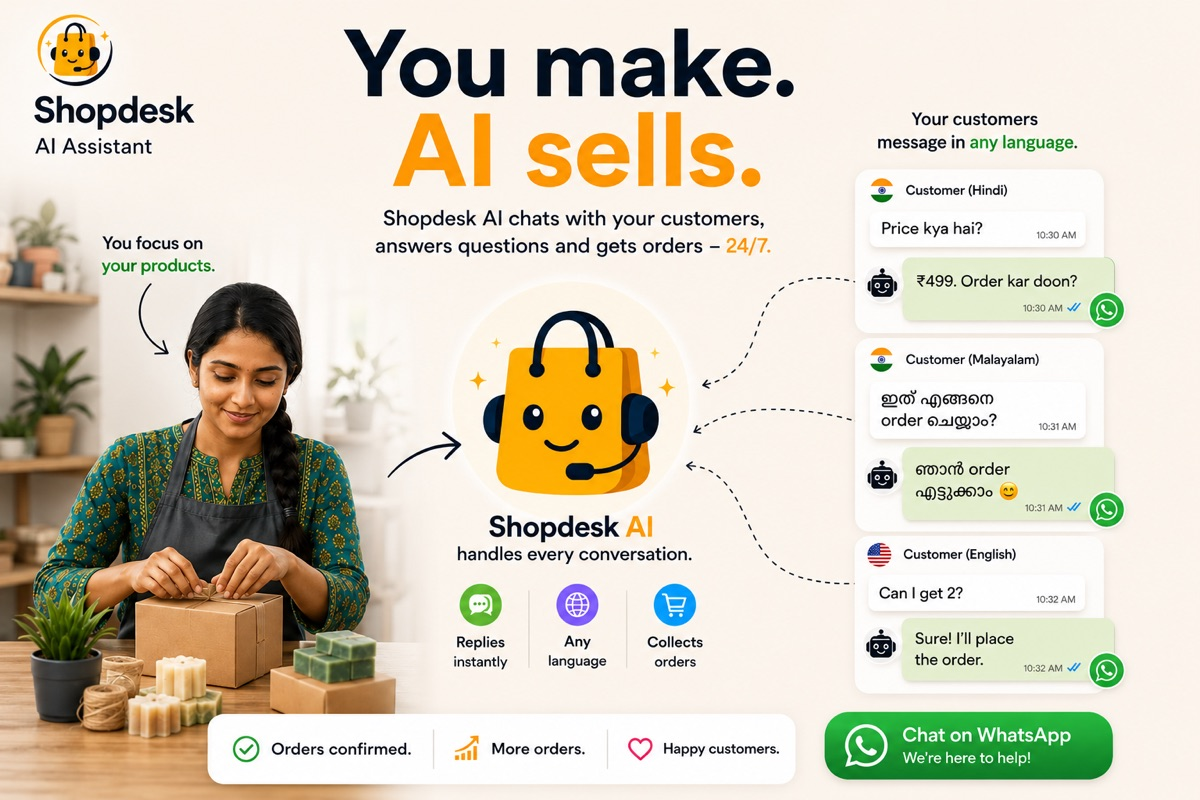
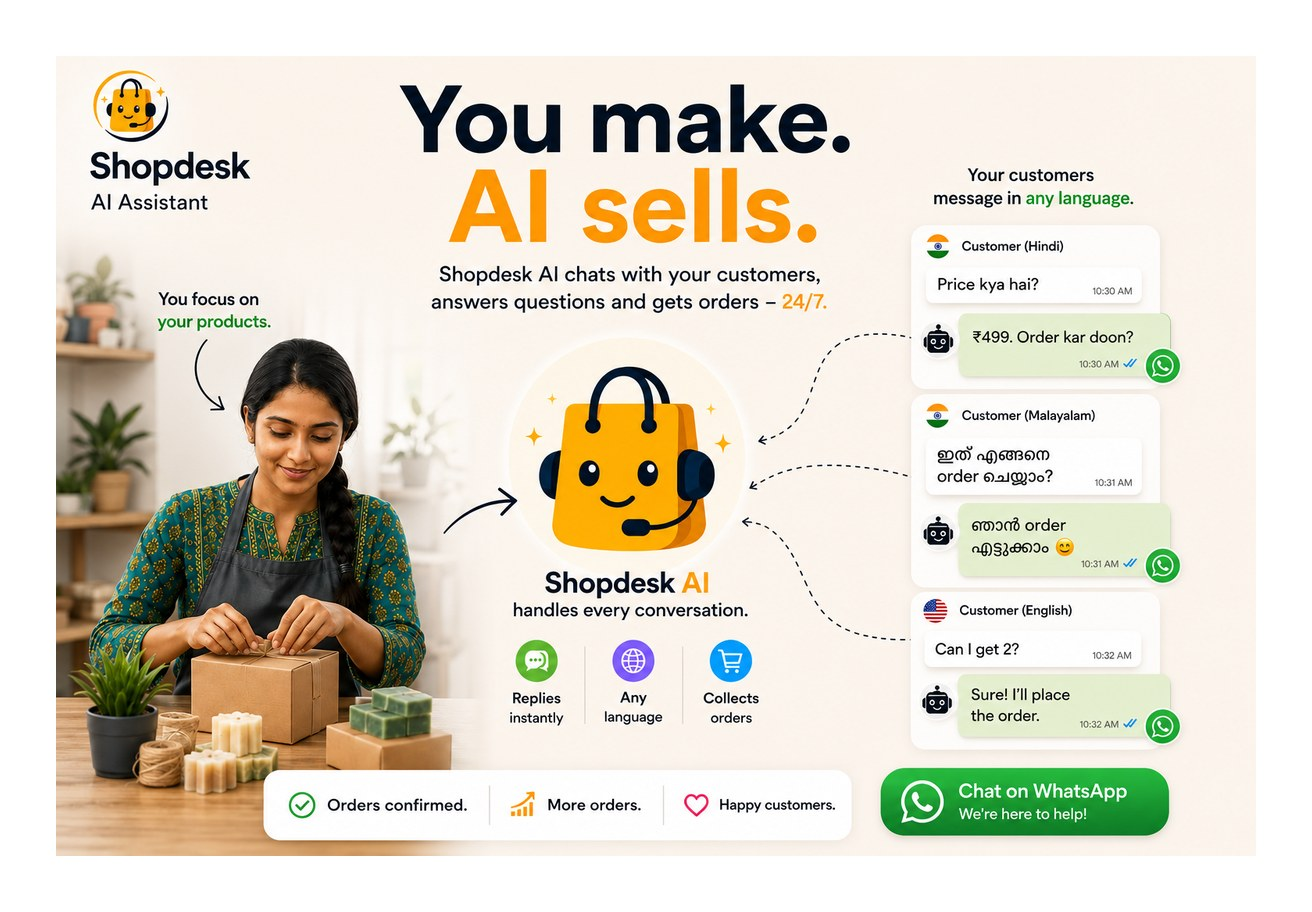
Shopdesk card: show the whole creative on a white mat
The card container is a fixed height with object-fit: cover and a 1.1x
idle zoom, so the ad was cropped top and bottom. Re-exported the image
with a white border and gave this card object-fit: contain on a white
background, so the full creative shows at every breakpoint.

diff --git a/index.html b/index.html
@@ -905,16 +905,16 @@
               <meta itemprop="operatingSystem" content="Web, WhatsApp" />
               <div class="glass p-4 group cursor-pointer overflow-hidden">
                 <div
-                  class="project-image-container bg-zinc-900 rounded-lg mb-4 overflow-hidden relative"
+                  class="project-image-container image-mat rounded-lg mb-4 overflow-hidden relative"
                 >
                   <img
                     src="shopdesk.jpeg"
-                    class="project-image"
+                    class="project-image image-contain"
                     alt="Shopdesk AI Assistant - an AI salesperson that chats with customers on WhatsApp in any language, answers questions and collects orders"
                     loading="lazy"
                     decoding="async"
-                    width="600"
-                    height="400"
+                    width="656"
+                    height="456"
                     itemprop="image"
                   />
                 </div>

diff --git a/style.css b/style.css
@@ -246,6 +246,22 @@
         }
       }
 
+      /* Poster-style cards: show the whole artwork on a white mat, never crop it */
+      .project-image-container.image-mat {
+        background: #ffffff;
+      }
+
+      .project-image.image-contain {
+        object-fit: contain;
+        transform: none;
+      }
+
+      @media (hover: hover) and (pointer: fine) {
+        .group:hover .project-image.image-contain {
+          transform: none;
+        }
+      }
+
       /* Carousel Styles */
       .carousel-container {
         position: relative;
